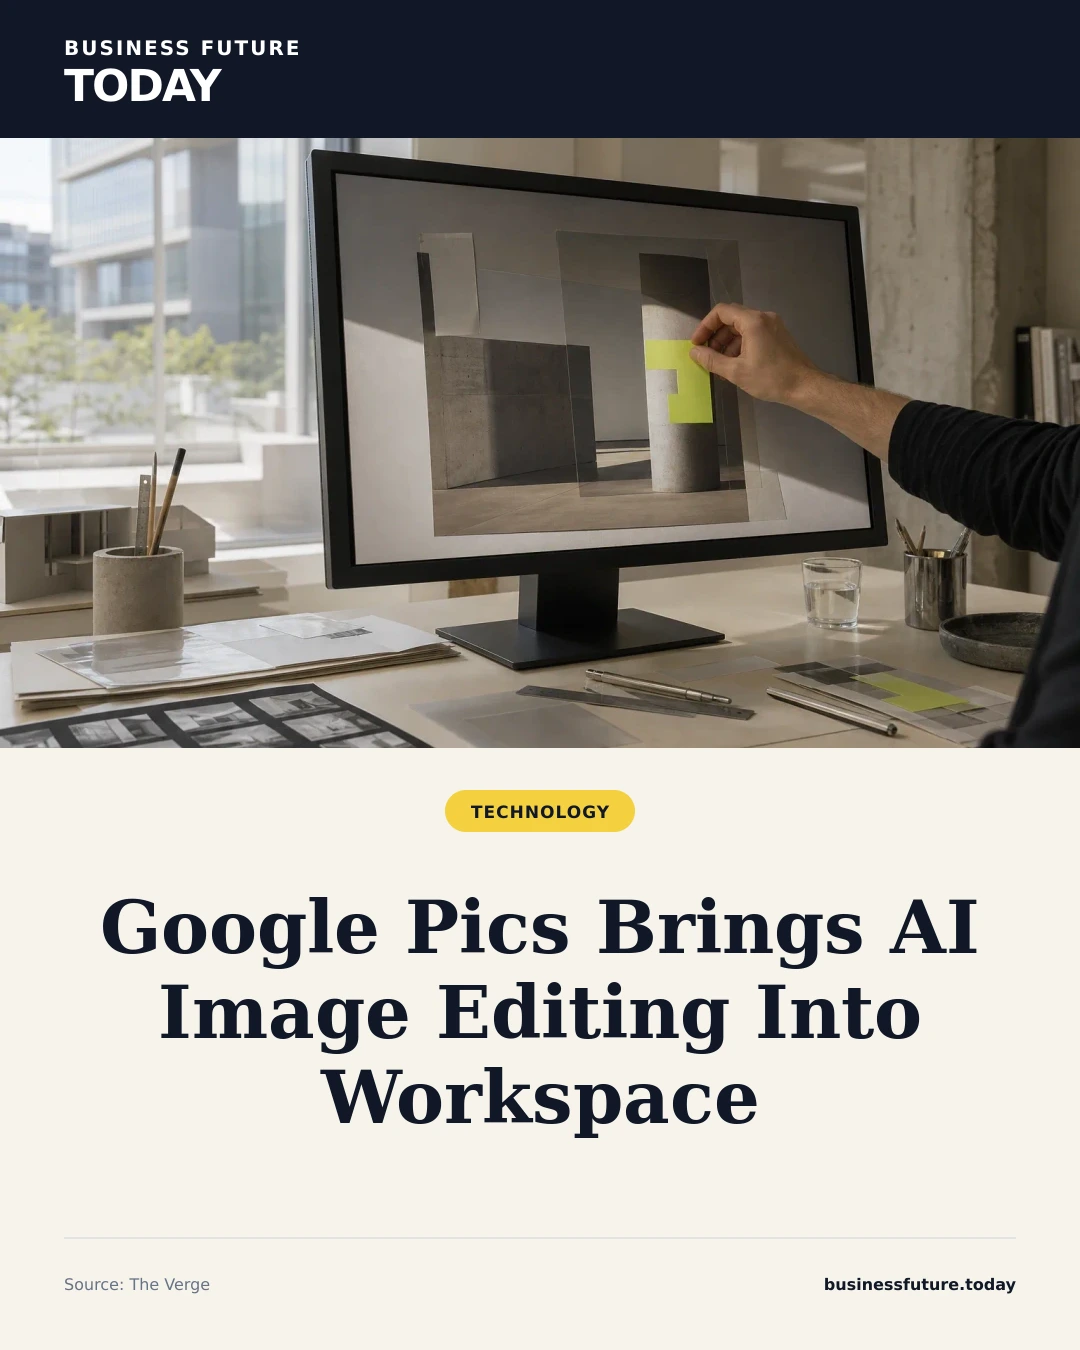
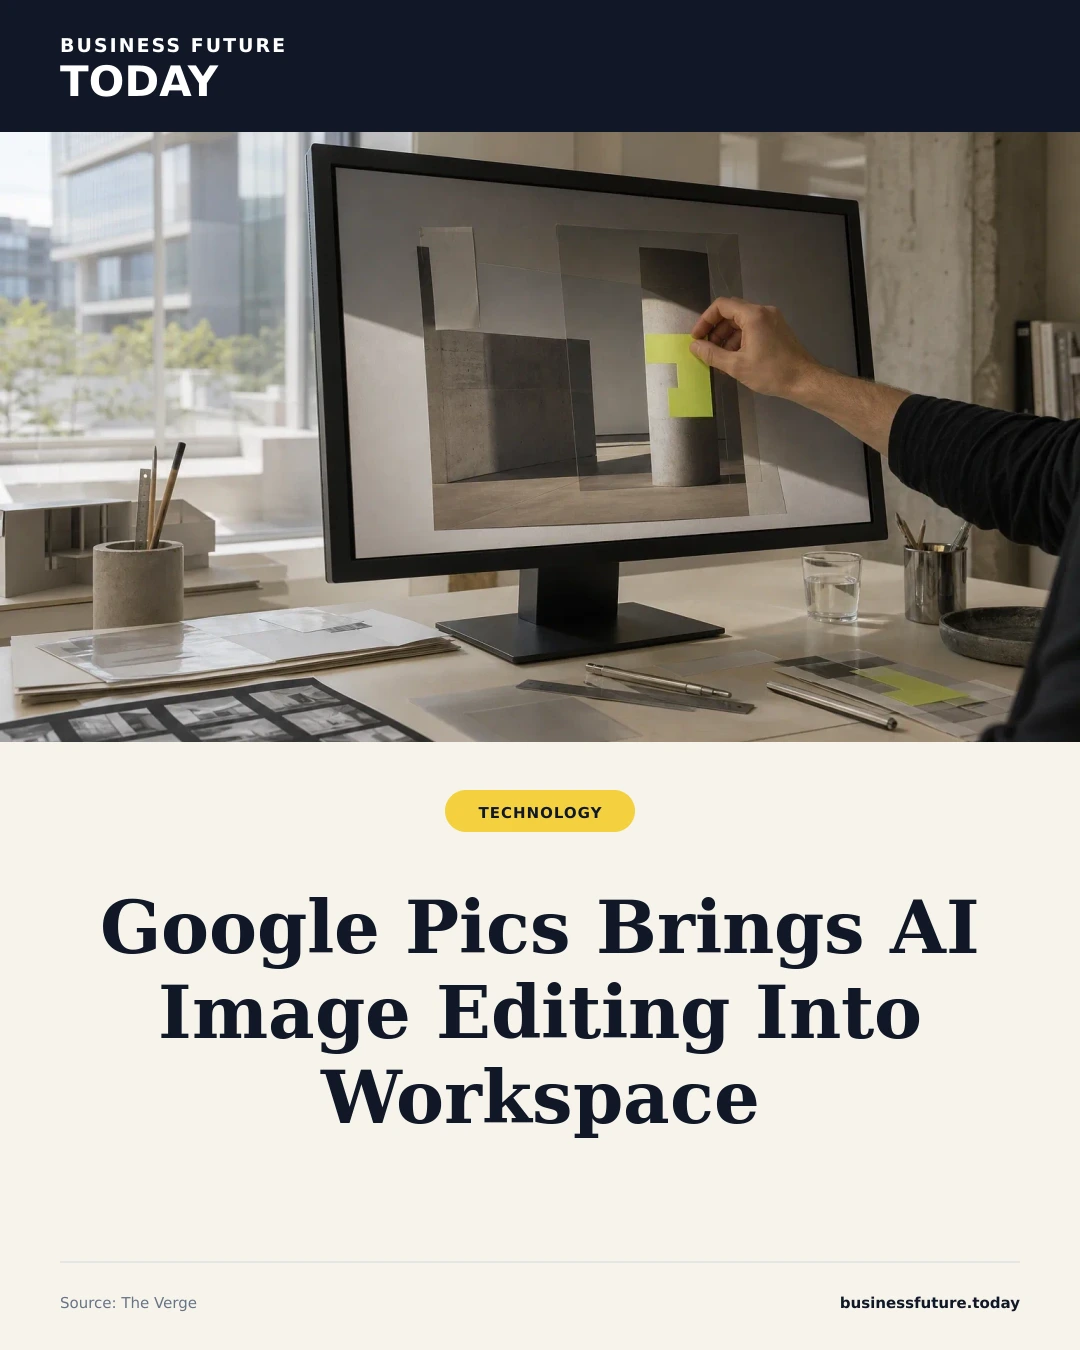
Add full Instagram carousel template system

diff --git a/components/social/social-review.tsx b/components/social/social-review.tsx
@@ -1,4 +1,5 @@
 import type {Story} from '@/lib/content';
 const A='/social-review-assets';
-export function SocialReview({story}:{story:Story}){const base=`${A}/${story.slug}`;return <main className="social-review"><header className="social-review__head"><div><p className="pub-kicker">SOCIAL TEMPLATE REVIEW</p><h1>{story.title}</h1><p>{story.dek}</p></div><a className="social-review__article" href={`/story/${story.slug}`}>Open article ↗</a></header><section className="social-review__grid"><Preview title="Instagram Feed" meta="1080 × 1350 · 4:5" src={`${base}/feed-1080x1350.webp`}/><Preview title="Carousel Cover" meta="1080 × 1080 · 1:1" src={`${base}/carousel-cover-1080x1080.webp`}/><Preview title="Story" meta="1080 × 1920 · 9:16" src={`${base}/story-1080x1920.webp`} story/></section><section className="social-review__caption"><p className="pub-kicker">CAPTION</p><p>{story.socialCaption}</p><div className="social-review__tags">#BusinessFutureToday&nbsp;&nbsp; #{story.category.replace(/\s+/g,'')}</div></section><section className="social-review__spec"><div><strong>Template</strong><span>BFT Editorial Social v1</span></div><div><strong>Image</strong><span>Article hero asset</span></div><div><strong>Source attribution</strong><span>Shown on asset</span></div><div><strong>Output</strong><span>WebP · publish-ready dimensions</span></div></section></main>}
+type CarouselSlide={type:string;label:string;headline:string;body?:string;bullets?:string[];file:string};type Manifest={caption:string;hashtags?:string[];carousel:{ratio:string;slides:CarouselSlide[]}};
+export function SocialReview({story,manifest}:{story:Story;manifest:Manifest}){const base=`${A}/${story.slug}`;return <main className="social-review"><header className="social-review__head"><div><p className="pub-kicker">SOCIAL TEMPLATE REVIEW</p><h1>{story.title}</h1><p>{story.dek}</p></div><a className="social-review__article" href={`/story/${story.slug}`}>Open article ↗</a></header><section className="social-review__grid social-review__grid--primary"><Preview title="Instagram Feed" meta="1080 × 1350 · 4:5" src={`${base}/feed-1080x1350.webp`}/><Preview title="Story" meta="1080 × 1920 · 9:16" src={`${base}/story-1080x1920.webp`} story/></section><section className="social-review__carousel"><div className="social-review__sectionhead"><div><p className="pub-kicker">INSTAGRAM CAROUSEL</p><h2>{manifest.carousel.slides.length} slides · {manifest.carousel.ratio}</h2></div><span>All slides 1080 × 1350</span></div><div className="social-review__carouselgrid">{manifest.carousel.slides.map((slide,i)=><Preview key={slide.file} title={`${String(i+1).padStart(2,'0')} · ${slide.label}`} meta={slide.type} src={`${base}/${slide.file}`}/>)}</div></section><section className="social-review__caption"><p className="pub-kicker">CAPTION</p><p>{manifest.caption}</p><div className="social-review__tags">{(manifest.hashtags||[]).map(x=>`#${x}`).join('  ')}</div></section><section className="social-review__spec"><div><strong>Template system</strong><span>BFT Editorial Social v2</span></div><div><strong>Content model</strong><span>Article → social.json → renderer</span></div><div><strong>Carousel types</strong><span>Cover · explainer · feature · impact · context · watch · CTA</span></div><div><strong>Canonical output</strong><span>WebP · channel adapter can transcode</span></div></section></main>}
 function Preview({title,meta,src,story=false}:{title:string;meta:string;src:string;story?:boolean}){return <article className={`social-preview${story?' social-preview--story':''}`}><div className="social-preview__label"><strong>{title}</strong><span>{meta}</span></div><a href={src} target="_blank" rel="noreferrer"><img src={src} alt={`${title} preview`}/></a><a className="social-preview__asset" href={src} target="_blank" rel="noreferrer">Open asset ↗</a></article>}

diff --git a/app/globals.css b/app/globals.css
@@ -253,3 +253,5 @@ h1, h2, h3 { font-weight: 600; letter-spacing: -.06em; }
 
 /* Social template review */
 .social-review{min-height:100vh;background:#eef1f4;color:#111827;padding:48px}.social-review__head{max-width:1500px;margin:0 auto 42px;display:flex;justify-content:space-between;gap:40px;align-items:flex-end}.social-review__head h1{max-width:900px;margin:8px 0 12px;font-size:clamp(38px,5vw,70px);line-height:.94;letter-spacing:-.055em}.social-review__head>div>p:last-child{max-width:760px;color:#5d6878;font:18px/1.5 Georgia,serif}.social-review__article,.social-preview__asset{font:700 12px Arial,sans-serif;text-transform:uppercase;letter-spacing:.06em;border-bottom:1px solid currentColor;padding-bottom:3px}.social-review__grid{max-width:1500px;margin:auto;display:grid;grid-template-columns:1fr 1fr .72fr;gap:28px;align-items:start}.social-preview{background:#fff;border:1px solid #d6dbe2;padding:16px;box-shadow:0 16px 45px rgba(15,23,42,.08)}.social-preview__label{display:flex;justify-content:space-between;gap:16px;align-items:baseline;margin-bottom:12px}.social-preview__label strong{font:800 13px Arial,sans-serif;text-transform:uppercase;letter-spacing:.05em}.social-preview__label span{font:12px Arial,sans-serif;color:#6b7685}.social-preview img{width:100%;height:auto;display:block;background:#111827}.social-preview__asset{display:inline-block;margin-top:13px}.social-review__caption,.social-review__spec{max-width:1500px;margin:28px auto 0;background:#fff;border:1px solid #d6dbe2;padding:28px 30px}.social-review__caption>p:nth-child(2){max-width:900px;font:22px/1.48 Georgia,serif;margin:10px 0 16px}.social-review__tags{font:700 12px Arial,sans-serif;color:#677386}.social-review__spec{display:grid;grid-template-columns:repeat(4,1fr);gap:24px}.social-review__spec div{display:grid;gap:7px}.social-review__spec strong{font:800 11px Arial,sans-serif;text-transform:uppercase;letter-spacing:.07em}.social-review__spec span{font:15px Arial,sans-serif;color:#596574}@media(max-width:1100px){.social-review{padding:28px 18px}.social-review__grid{grid-template-columns:1fr 1fr}.social-preview--story{grid-column:1/-1;max-width:520px}.social-review__spec{grid-template-columns:1fr 1fr}}@media(max-width:680px){.social-review__head{display:block}.social-review__article{display:inline-block;margin-top:16px}.social-review__grid{grid-template-columns:1fr}.social-preview--story{grid-column:auto}.social-review__spec{grid-template-columns:1fr}}
+.social-review__grid--primary{grid-template-columns:minmax(0,1fr) minmax(280px,.56fr)}
+.social-review__carousel{max-width:1500px;margin:34px auto 0}.social-review__sectionhead{display:flex;justify-content:space-between;gap:24px;align-items:flex-end;margin-bottom:18px}.social-review__sectionhead h2{font-size:34px;letter-spacing:-.035em;margin-top:4px}.social-review__sectionhead>span{font:12px Arial,sans-serif;color:#677386;text-transform:uppercase;letter-spacing:.06em}.social-review__carouselgrid{display:grid;grid-template-columns:repeat(3,minmax(0,1fr));gap:22px}.social-review__carouselgrid .social-preview{box-shadow:0 10px 34px rgba(15,23,42,.07)}@media(max-width:1100px){.social-review__carouselgrid{grid-template-columns:repeat(2,minmax(0,1fr))}}@media(max-width:680px){.social-review__grid--primary,.social-review__carouselgrid{grid-template-columns:1fr}.social-review__sectionhead{display:block}.social-review__sectionhead>span{display:block;margin-top:8px}}

diff --git a/app/social-review/[slug]/page.tsx b/app/social-review/[slug]/page.tsx
@@ -1,6 +1,3 @@
-import type {Metadata} from 'next';
-import {notFound} from 'next/navigation';
-import {stories} from '@/lib/content';
-import {SocialReview} from '@/components/social/social-review';
+import type {Metadata} from 'next';import {notFound} from 'next/navigation';import fs from 'node:fs/promises';import path from 'node:path';import {stories} from '@/lib/content';import {SocialReview} from '@/components/social/social-review';
 export const metadata:Metadata={title:'Social Template Review',robots:{index:false,follow:false}};
-export default async function Page({params}:{params:Promise<{slug:string}>}){const{slug}=await params;const story=stories.find(s=>s.slug===slug);if(!story)notFound();return <SocialReview story={story}/>}
+export default async function Page({params}:{params:Promise<{slug:string}>}){const{slug}=await params;const story=stories.find(s=>s.slug===slug);if(!story)notFound();let manifest;try{manifest=JSON.parse(await fs.readFile(path.join(process.cwd(),'public','social-review-assets',slug,'manifest.json'),'utf8'))}catch{notFound()}return <SocialReview story={story} manifest={manifest}/>}
